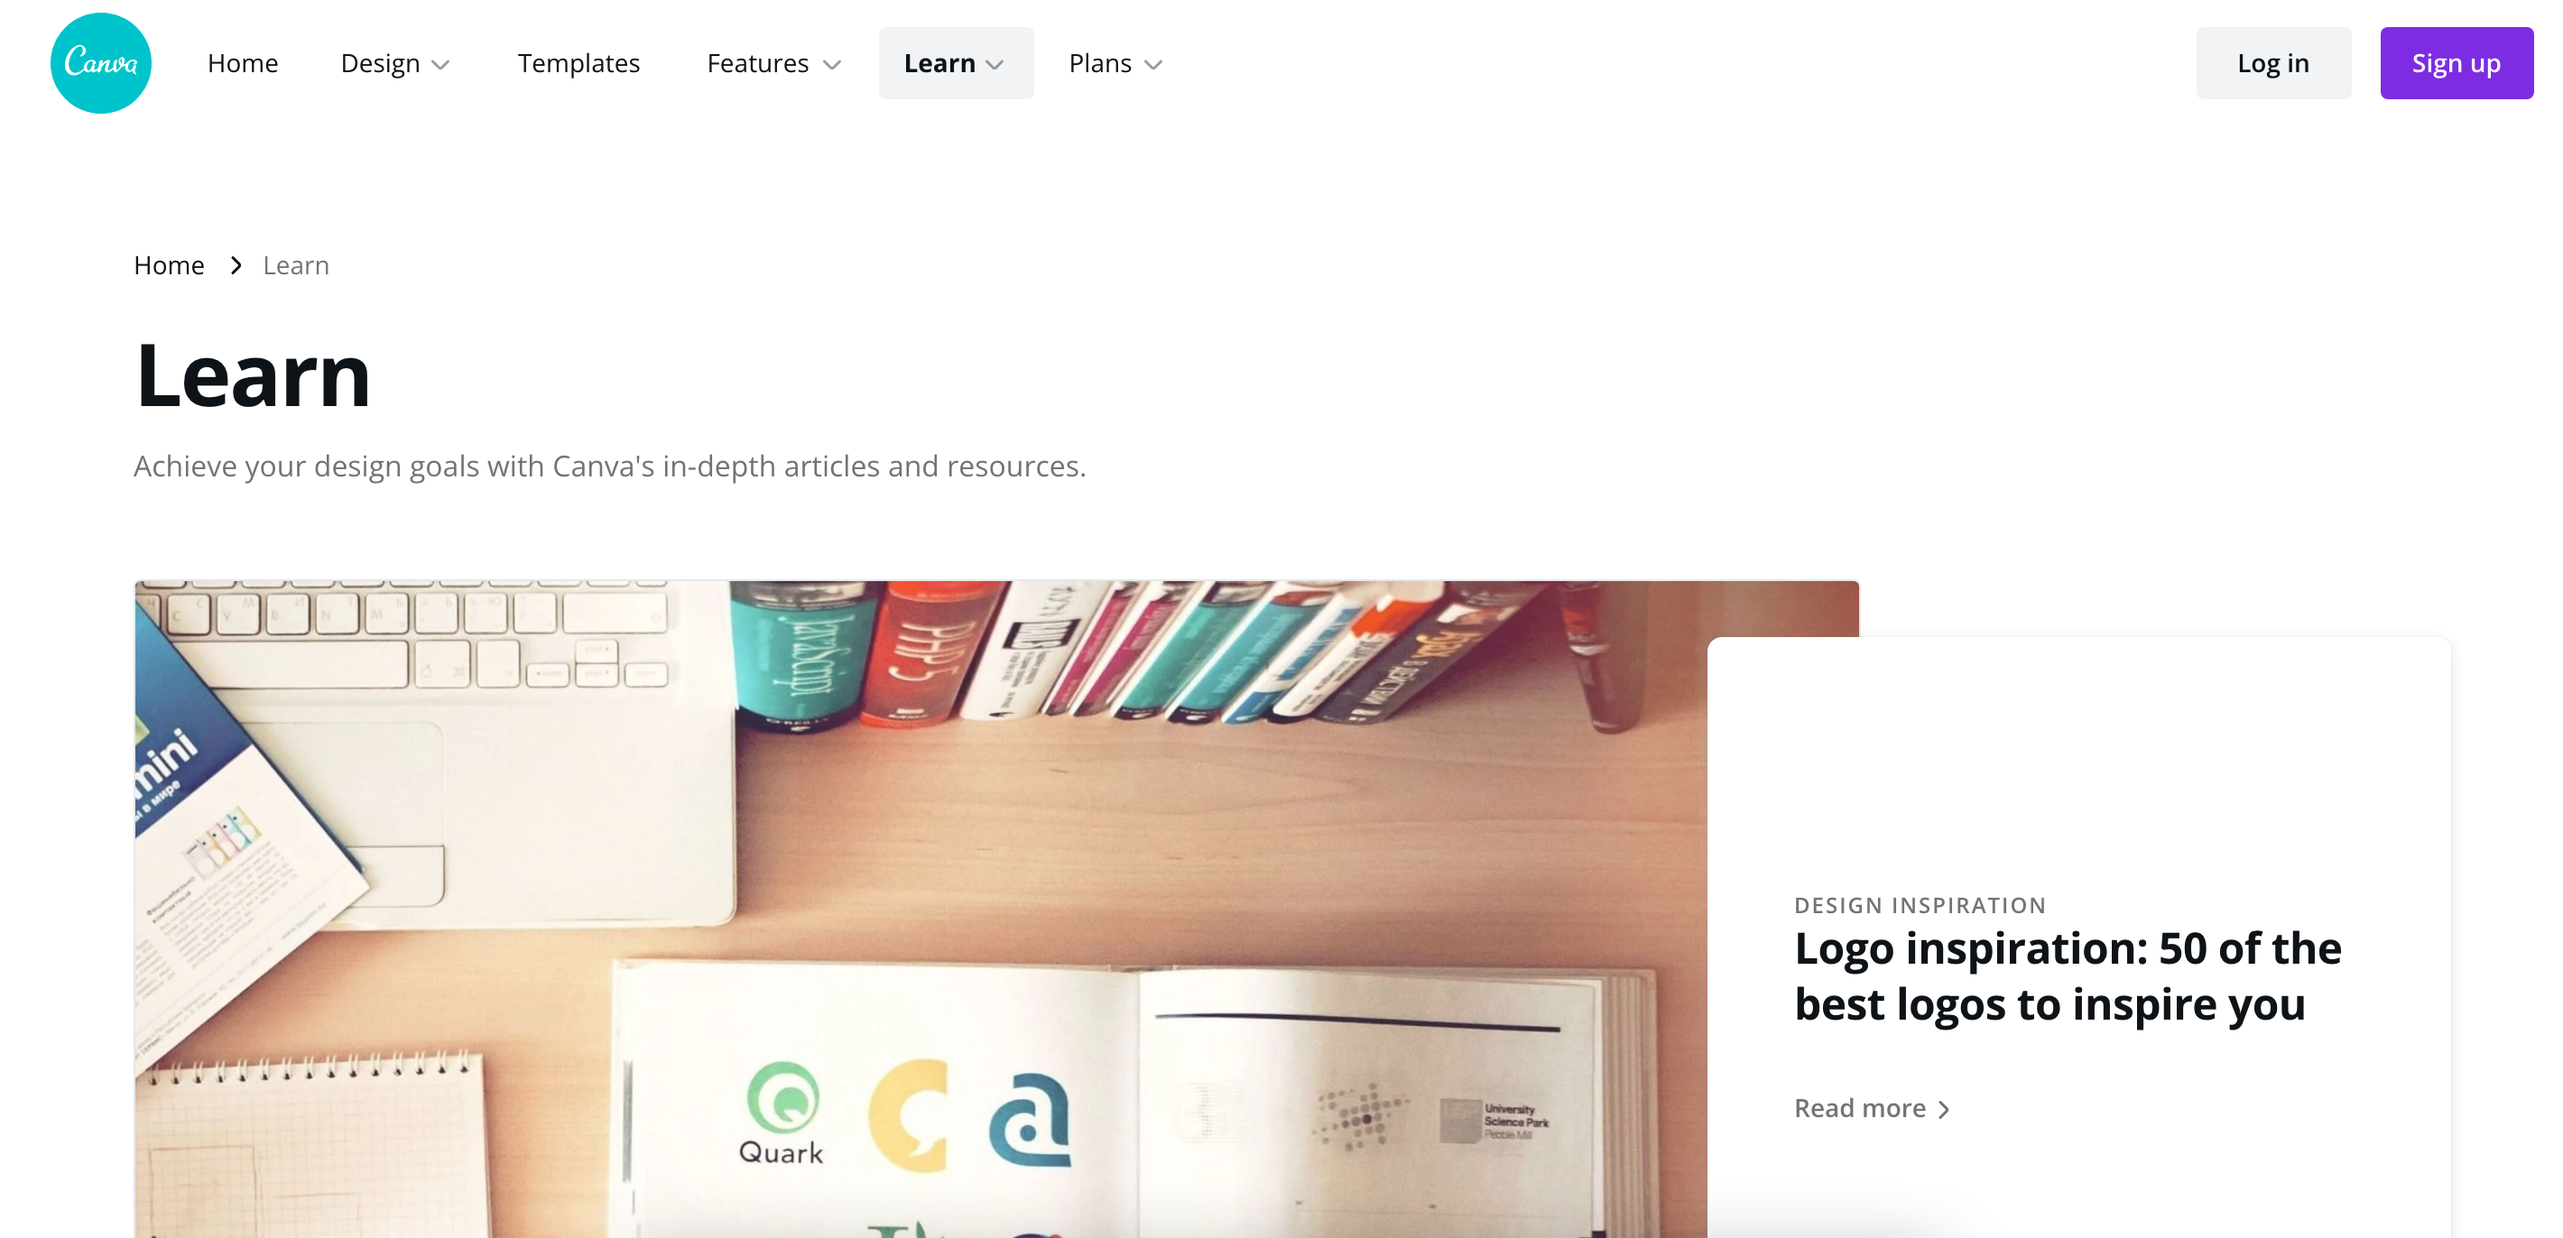
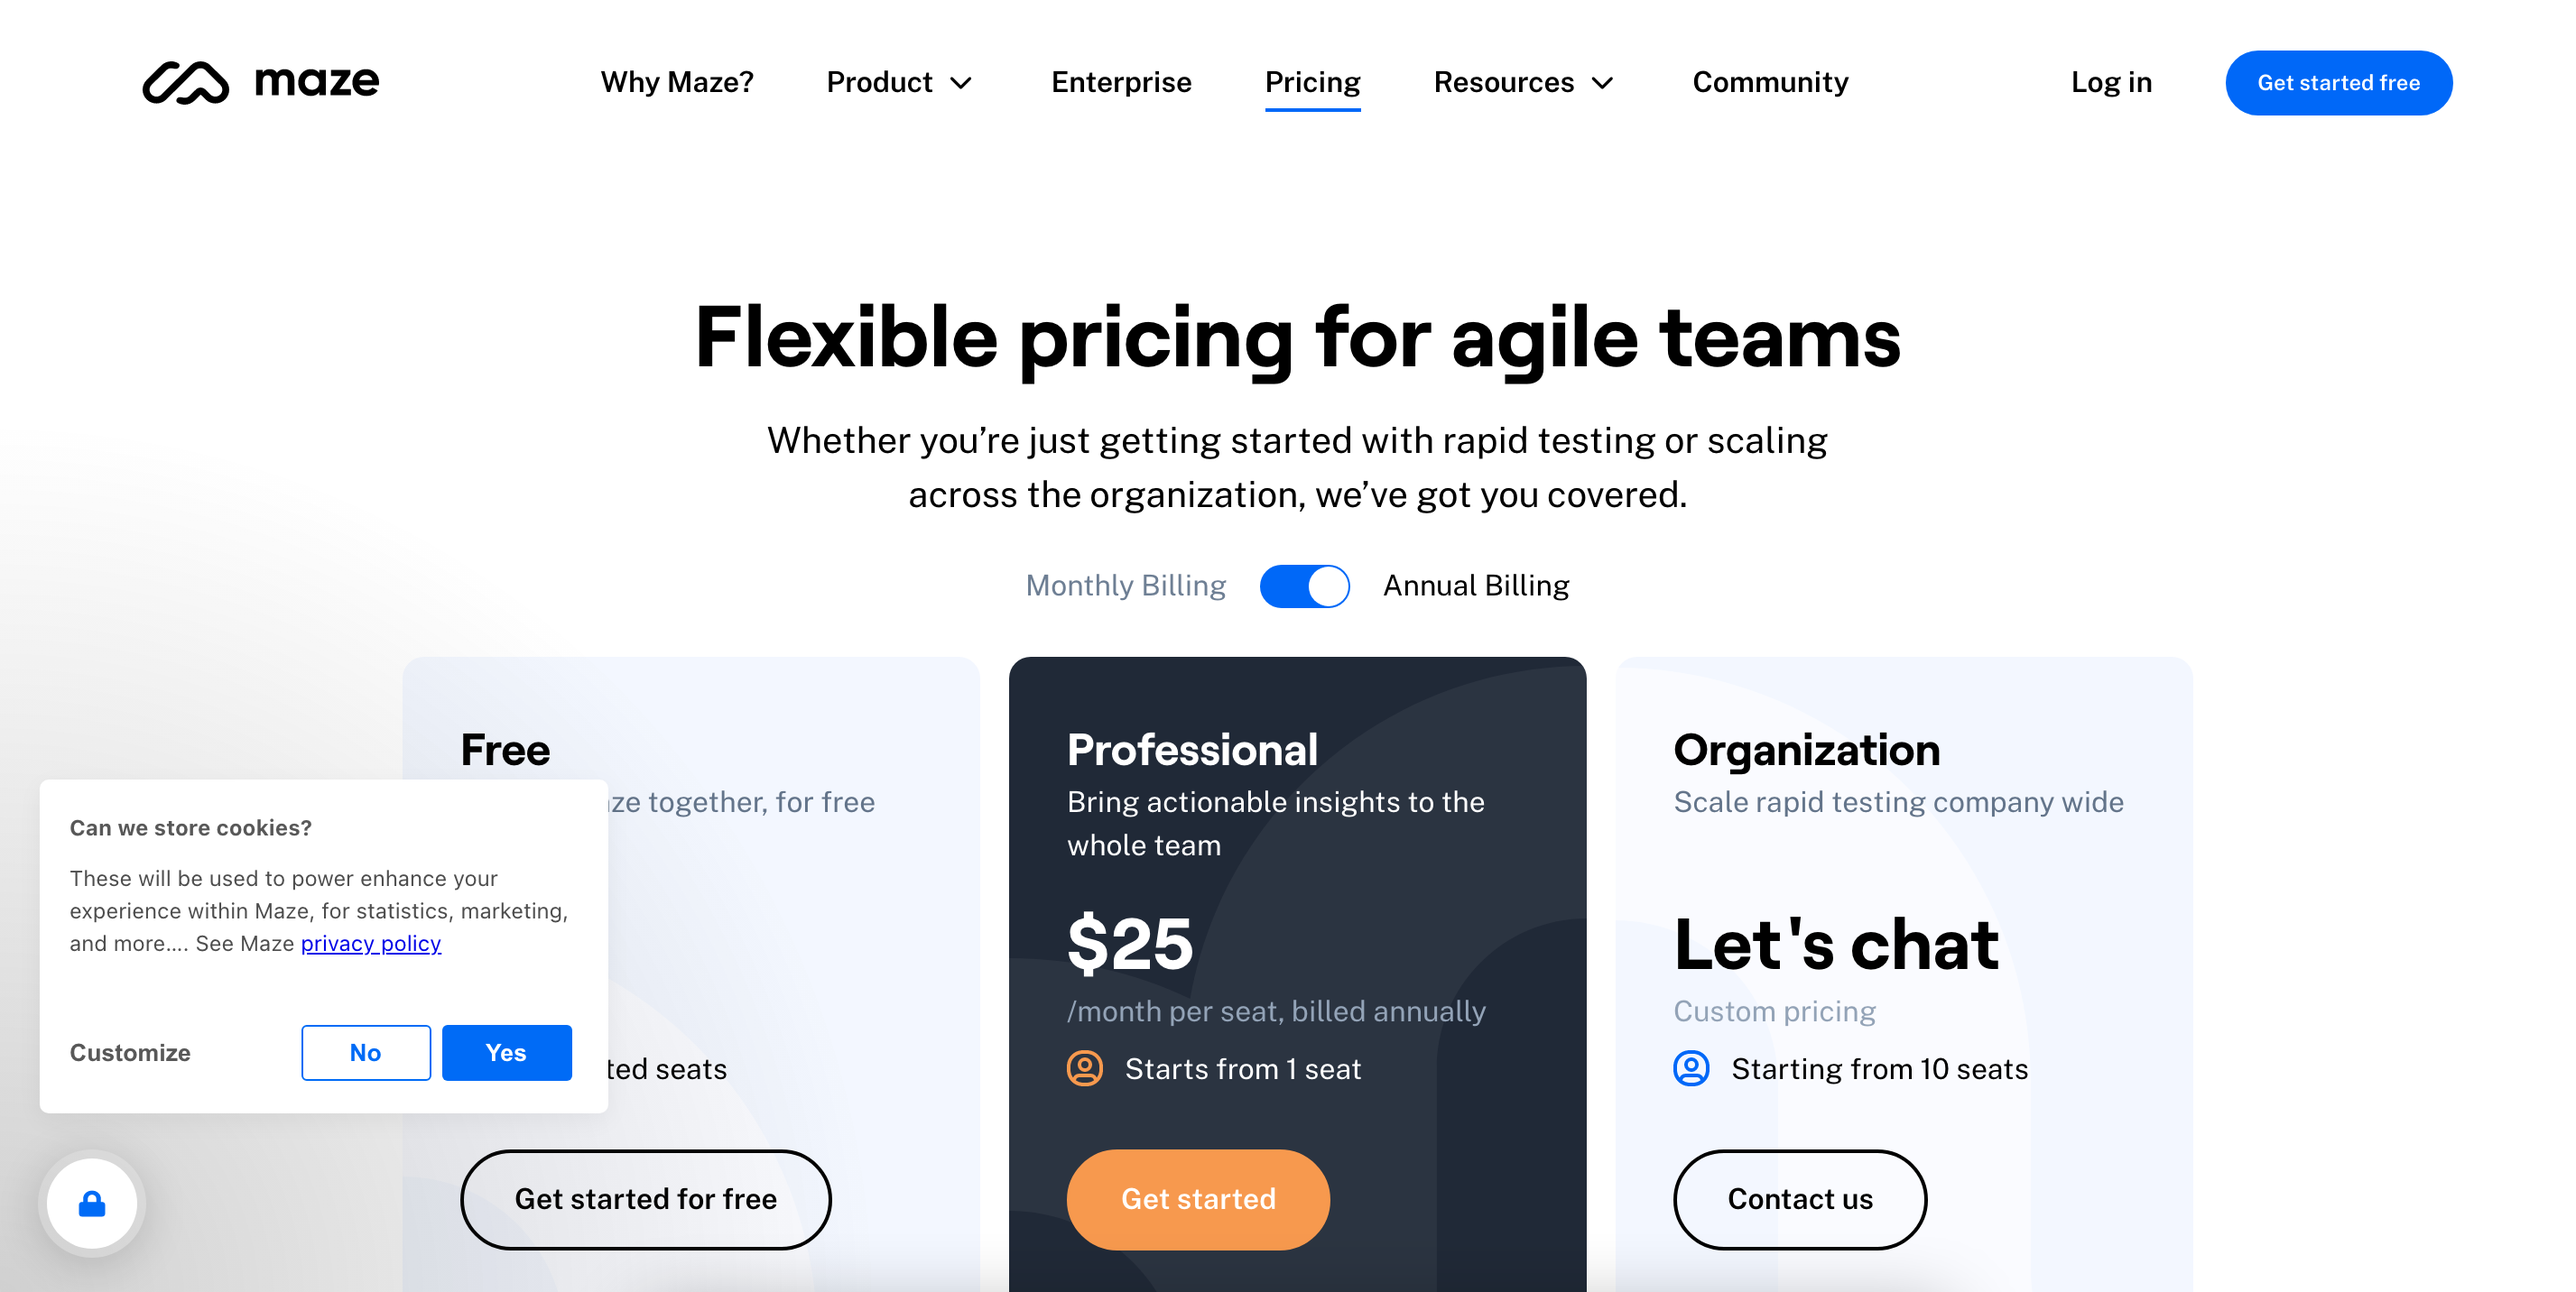
polishing features gallery section

diff --git a/views/HomePage/FeaturesGallery.tsx b/views/HomePage/FeaturesGallery.tsx
@@ -4,37 +4,32 @@ import NextImage from 'next/image';
 import { Container } from 'components/Container';
 import { media } from 'utils/media';
 import Collapse from 'components/Collapse';
+import ThreeLayersCircle from 'components/ThreeLayersCircle';
 
 const TABS = [
   {
-    title: 'Find relevant media contacts',
+    title: 'Find relevant media contacts - multiline title',
     description:
-      'Lorem ipsum dolor sit amet consectetur adipisicing elit. Quibusdam quidem ipsam ratione dicta quis cupiditate consequuntur laborum ducimus iusto velit.',
+      '<p>Lorem ipsum dolor sit amet consectetur adipisicing elit. Quibusdam quidem ipsam ratione dicta quis cupiditate consequuntur laborum ducimus iusto velit.</p>',
     imageUrl: '/demo-illustration-3.png',
+    baseColor: '249,82,120',
+    secondColor: '221,9,57',
   },
   {
     title: 'Find relevant media contacts2',
     description:
-      'Lorem ipsum dolor sit amet consectetur adipisicing elit. Quibusdam quidem ipsam ratione dicta quis cupiditate consequuntur laborum ducimus iusto velit.',
+      '<p>Lorem ipsum dolor sit amet consectetur adipisicing elit. Quibusdam quidem ipsam ratione dicta quis cupiditate consequuntur laborum ducimus iusto velit.</p>',
     imageUrl: '/demo-illustration-4.png',
+    baseColor: '57,148,224',
+    secondColor: '99,172,232',
   },
   {
     title: 'Find relevant media contacts3',
     description:
-      'Lorem ipsum dolor sit amet consectetur adipisicing elit. Quibusdam quidem ipsam ratione dicta quis cupiditate consequuntur laborum ducimus iusto velit.',
+      '<p>Lorem ipsum dolor sit amet consectetur adipisicing elit. Quibusdam quidem ipsam ratione dicta quis cupiditate consequuntur laborum ducimus iusto velit.</p>',
     imageUrl: '/demo-illustration-5.png',
-  },
-  {
-    title: 'Find relevant media contacts4',
-    description:
-      'Lorem ipsum dolor sit amet consectetur adipisicing elit. Quibusdam quidem ipsam ratione dicta quis cupiditate consequuntur laborum ducimus iusto velit.',
-    imageUrl: '/demo-illustration-6.png',
-  },
-  {
-    title: 'Find relevant media contacts5',
-    description:
-      'Lorem ipsum dolor sit amet consectetur adipisicing elit. Quibusdam quidem ipsam ratione dicta quis cupiditate consequuntur laborum ducimus iusto velit.',
-    imageUrl: '/demo-illustration-7.png',
+    baseColor: '88,193,132',
+    secondColor: '124,207,158',
   },
 ];
 
@@ -47,7 +42,7 @@ export default function FeaturesGallery() {
 
     return (
       <ImageContainer key={singleTab.title} isActive={isActive}>
-        <NextImage src={singleTab.imageUrl} layout="fill" objectFit="cover" priority={isFirst} />
+        <NextImage src={singleTab.imageUrl} layout="fill" objectFit="contain" priority={isFirst} />
       </ImageContainer>
     );
   });
@@ -56,11 +51,17 @@ export default function FeaturesGallery() {
     const isActive = singleTab.title === currentTab.title;
 
     return (
-      <Tab key={idx} onClick={() => handleTabClick(idx)}>
-        {singleTab.title}
+      <Tab isActive={isActive} key={idx} onClick={() => handleTabClick(idx)}>
+        <TabTitleContainer>
+          <CircleContainer>
+            <ThreeLayersCircle baseColor={isActive ? 'transparent' : singleTab.baseColor} secondColor={singleTab.secondColor} />
+          </CircleContainer>
+          <h3>{singleTab.title}</h3>
+        </TabTitleContainer>
         <Collapse isOpen={isActive} duration={300}>
-          <h1>Your content goes here</h1>
-          <p>Put as many React or HTML components here.</p>
+          <TabContent>
+            <div dangerouslySetInnerHTML={{ __html: singleTab.description }}></div>
+          </TabContent>
         </Collapse>
       </Tab>
     );
@@ -104,8 +105,8 @@ const TabsContainer = styled.div`
 
 const ImageContainer = styled.div<{ isActive: boolean }>`
   position: relative;
-  height: 50rem;
-  border-radius: 0.6rem;
+  overflow: hidden;
+  border-radius: 0.8rem;
   flex: ${(p) => (p.isActive ? '2' : '0')};
   box-shadow: var(--shadow-md);
 
@@ -129,19 +130,54 @@ const ImageContainer = styled.div<{ isActive: boolean }>`
   }
 `;
 
-const Tab = styled.div`
+const Tab = styled.div<{ isActive: boolean }>`
   display: flex;
   flex-direction: column;
-  padding: 2rem 1rem;
+  padding: 2rem 1.5rem;
   background: rgba(var(--secondary), 0.025);
-  opacity: 0.9;
+  opacity: ${(p) => (p.isActive ? 1 : 0.6)};
   cursor: pointer;
   border-radius: 0.6rem;
+  transition: opacity 0.2s;
 
   font-size: 1.6rem;
   font-weight: bold;
 
   ${media('<=desktop')} {
     width: 100%;
+  }
+`;
+
+const TabTitleContainer = styled.div`
+  display: flex;
+  align-items: center;
+
+  h3 {
+    flex: 1;
+  }
+`;
+
+const TabContent = styled.div`
+  display: flex;
+  flex-direction: column;
+  font-weight: normal;
+  margin-top: 0.5rem;
+  font-size: 1.5rem;
+  padding-left: calc(5rem + 1.5rem);
+
+  ${media('<=tablet')} {
+    padding-left: calc(4rem + 1.25rem);
+  }
+
+  p {
+    font-weight: normal;
+  }
+`;
+
+const CircleContainer = styled.div`
+  flex: 0 calc(5rem + 1.5rem);
+
+  ${media('<=tablet')} {
+    flex: 0 calc(4rem + 1.25rem);
   }
 `;

diff --git a/components/ThreeLayersCircle.tsx b/components/ThreeLayersCircle.tsx
@@ -1,0 +1,52 @@
+import styled from 'styled-components';
+import { media } from 'utils/media';
+
+export interface ThreeLayersCircleProps {
+  baseColor: string;
+  secondColor: string;
+}
+
+const ThreeLayersCircle = styled.div<ThreeLayersCircleProps>`
+  position: relative;
+  display: inline-block;
+  opacity: 0.8;
+  width: 5rem;
+  height: 5rem;
+  border-radius: 100rem;
+  background: rgb(${(p) => p.baseColor});
+  z-index: 0;
+  transition: background 0.2s;
+
+  ${media('<=tablet')} {
+    width: 4rem;
+    height: 4rem;
+  }
+
+  &:after,
+  &:before {
+    content: '';
+    position: absolute;
+    width: 3.5rem;
+    height: 3.5rem;
+    top: 50%;
+    left: 50%;
+    transform: translate(-50%, -50%);
+    border-radius: 100rem;
+    z-index: -1;
+  }
+
+  &:after {
+    width: 4rem;
+    height: 4rem;
+    background: rgb(${(p) => p.secondColor});
+    z-index: -2;
+  }
+
+  &:before {
+    width: 2rem;
+    height: 2rem;
+    background: rgb(${(p) => p.baseColor});
+  }
+`;
+
+export default ThreeLayersCircle;

diff --git a/pages/index.tsx b/pages/index.tsx
@@ -36,9 +36,9 @@ export default function Homepage() {
         </ul>
       </BasicSection>
       <Cta />
+      <FeaturesGallery />
       <Features />
       <Testimonials />
-      <FeaturesGallery />
     </HomepageWrapper>
   );
 }
